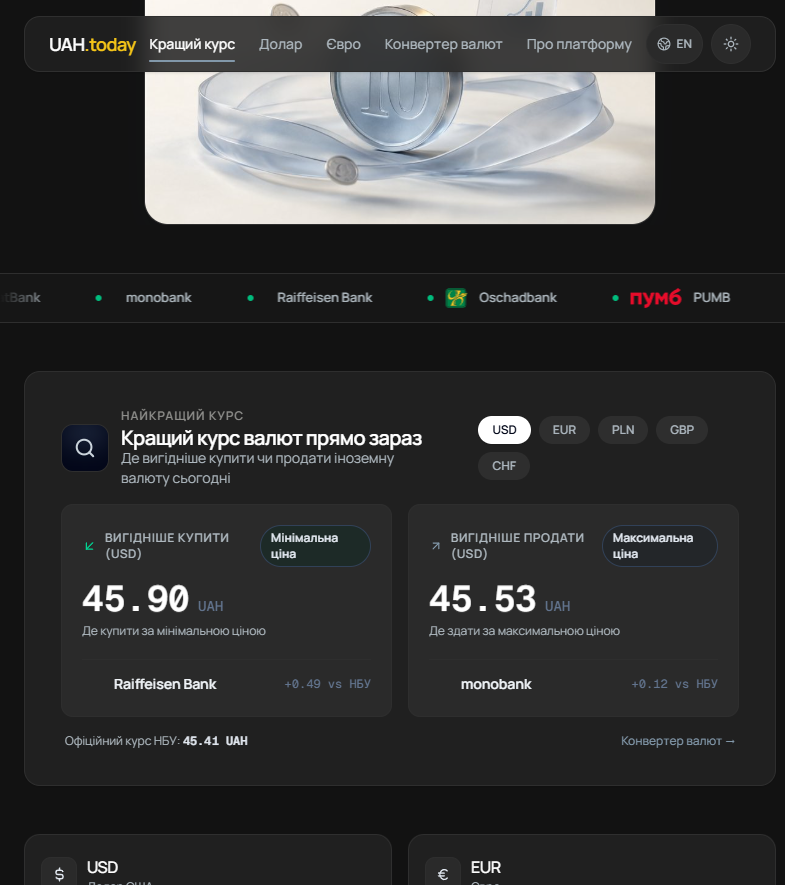
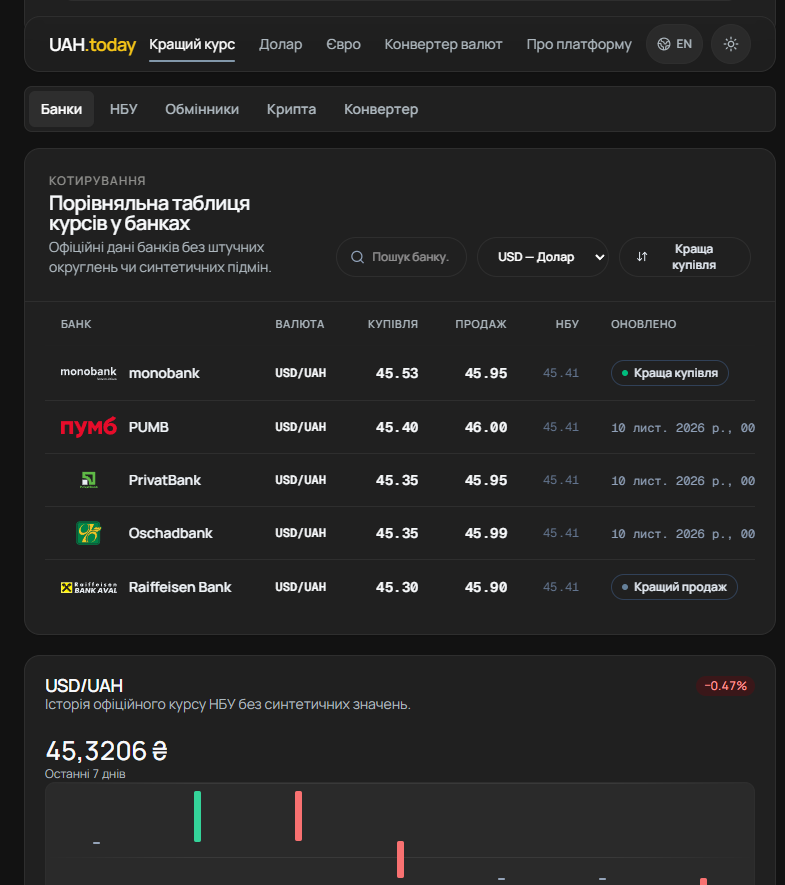
docs(readme): crisper dark table screenshot, accurate captions
Replaces the mid-scroll dark frame with a settled dark bank-comparison table (best buy/sell badges, NBU column, timestamps) and aligns gallery captions with what each frame actually shows.

diff --git a/README.md b/README.md
@@ -6,11 +6,11 @@
 
 **UAH.today** is a modern, high-performance currency comparison platform that helps people find the best exchange rates across Ukrainian banks and the National Bank of Ukraine (NBU).
 
-| Dashboard · light theme | Dashboard · dark theme |
+| Dashboard · light theme | Bank comparison table · dark theme |
 |---|---|
-| ![UAH.today dashboard with best-rate cards and a full-bleed hero glow, light theme](docs/screenshots/dashboard-light.png) | ![UAH.today dashboard in dark theme with best-rate cards](docs/screenshots/dashboard-dark.png) |
-| **Bank comparison table** | **English version** |
-| ![Sortable bank comparison table with USD, EUR, PLN, GBP and CHF quotes](docs/screenshots/rates-overview.png) | ![English version of the dashboard](docs/screenshots/en-dashboard.png) |
+| ![UAH.today dashboard with best-rate cards and a full-bleed hero glow, light theme](docs/screenshots/dashboard-light.png) | ![Dark-theme bank comparison table with best buy and sell quotes across banks](docs/screenshots/dashboard-dark.png) |
+| **Currency overview cards** | **English version** |
+| ![Currency overview cards with best buy and sell quotes for USD, EUR, PLN, GBP and CHF](docs/screenshots/rates-overview.png) | ![English version of the dashboard](docs/screenshots/en-dashboard.png) |
 
 **Try it live:** [exchange-rates-ukraine.vercel.app](https://exchange-rates-ukraine.vercel.app/) (UA) · [exchange-rates-ukraine.vercel.app/en](https://exchange-rates-ukraine.vercel.app/en) (EN)
 
